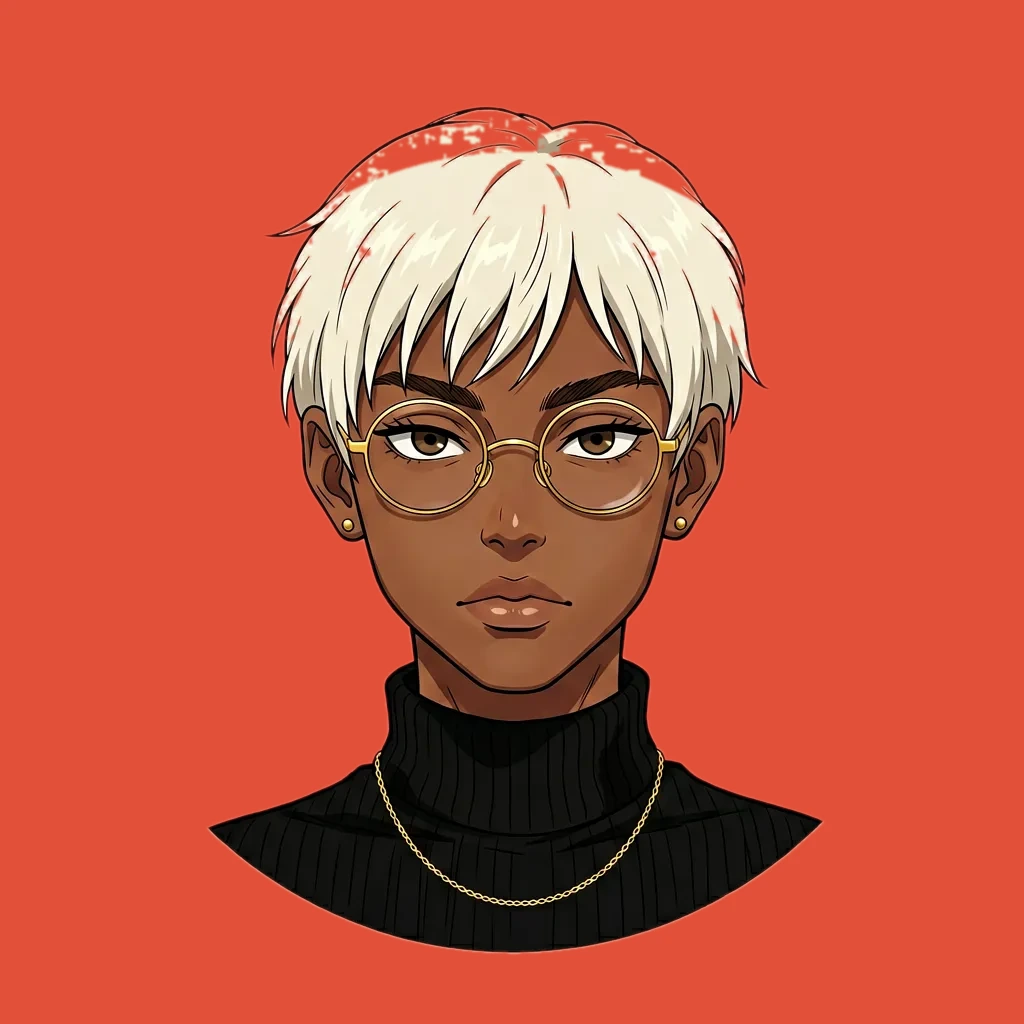
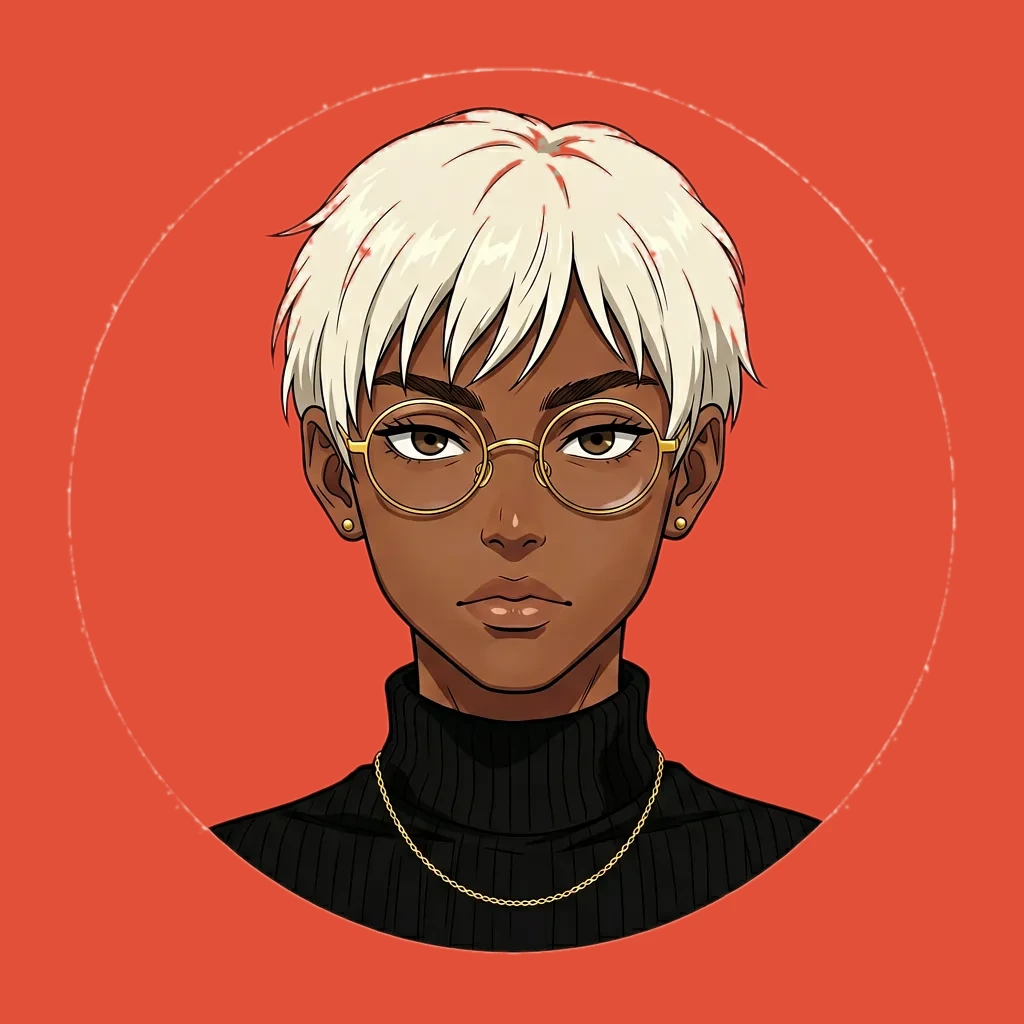
Architect: protect platinum in outer ring; V3 afro scale 1.15 to avoid clip

diff --git a/index.html b/index.html
@@ -95,10 +95,11 @@
   /* All persona portraits sit on coral */
   #off-duty .portrait, #architect .portrait { background: var(--red); }
 
-  /* Architect renders are framed wider than Off-Duty — scale up
-     inside the round tile so the subject's shoulders crop at the circle
-     edge similarly to Off-Duty without clipping the top of the head. */
+  /* Architect renders are framed wider than Off-Duty — scale per-face
+     so each subject fills the circle without clipping the hair.
+     V3 (afro) needs less zoom because the hair is taller. */
   #architect .portrait img { transform: scale(1.30); transform-origin: center; }
+  #architect .card:nth-child(3) .portrait img { transform: scale(1.15); }
 
   .card h3 {
     font-family: Georgia, serif; font-size: 30px; font-weight: 900;

diff --git a/renders/recolor_bg.py b/renders/recolor_bg.py
@@ -48,9 +48,9 @@ def recolor(infile, outfile):
 
     subject_mask = is_dark | is_warm_subject | is_platinum | protected_inner
 
-    # Outer-ring cleanup
+    # Outer-ring cleanup — spare platinum hair which can extend into outer ring
     outer_ring = dist > 360
-    outer_haze = outer_ring & (L > 0.55) & ~is_warm_subject
+    outer_haze = outer_ring & (L > 0.55) & ~is_warm_subject & ~is_platinum
     subject_mask = subject_mask & ~outer_haze
 
     # Convert mask to PIL, slight smooth edge
